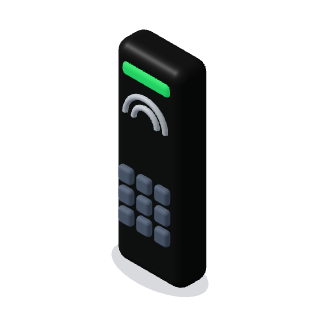
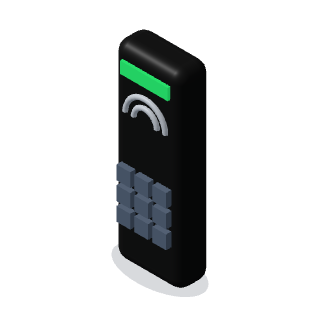
perf/test: lighter device meshes, more E2E headroom
- Rounded boxes cost ~25x a plain box in triangles: round only larger faceplates and
  casings, at 2 segments instead of 3 (about 60% fewer triangles across the seed
  plan's 61 devices). Icons regenerated; no visible change at real size.
- E2E per-test timeout 60s -> 120s and CI E2E job 20 -> 30 min: software WebGL
  re-renders the whole scene on every pointer move/edit, and the detailed models make
  parallel workers slower. No test was skipped or weakened.

Claude-Session: https://claude.ai/code/session_018aHCVQcSmGVdR2uk9mqdMh

Changed region(s): [[0.3438, 0.5, 0.5625, 0.7812], [0.375, 0.1875, 0.5312, 0.3125]]

diff --git a/src/three/deviceModels.ts b/src/three/deviceModels.ts
@@ -62,8 +62,11 @@ function box(
   radius = 0
 ): THREE.Mesh {
   const [w, h, d] = size;
-  const g = geo(`box|${w}|${h}|${d}|${radius}`, () =>
-    radius > 0 ? new RoundedBoxGeometry(w, h, d, 3, radius) : new THREE.BoxGeometry(w, h, d)
+  // Rounding costs ~25x the triangles of a plain box (300 vs 12 even at 2 segments) and is
+  // invisible on small parts, so only the larger faceplates and casings are rounded.
+  const rounded = radius > 0 && Math.min(w, h, d) >= 0.045;
+  const g = geo(`box|${w}|${h}|${d}|${rounded ? radius : 0}`, () =>
+    rounded ? new RoundedBoxGeometry(w, h, d, 2, radius) : new THREE.BoxGeometry(w, h, d)
   );
   const m = new THREE.Mesh(g, material);
   m.position.set(...pos);

diff --git a/playwright.config.ts b/playwright.config.ts
@@ -6,7 +6,9 @@ const PORT = Number(process.env.E2E_PORT) || 3100;
 
 export default defineConfig({
   testDir: 'tests/e2e',
-  timeout: 60_000,
+  // Software WebGL (SwiftShader) re-renders the whole scene on every pointer move and asset
+  // edit; with the detailed device and furniture models, parallel workers need the headroom.
+  timeout: 120_000,
   retries: process.env.CI ? 1 : 0,
   reporter: process.env.CI ? [['list'], ['html', { open: 'never' }]] : 'list',
   use: {
